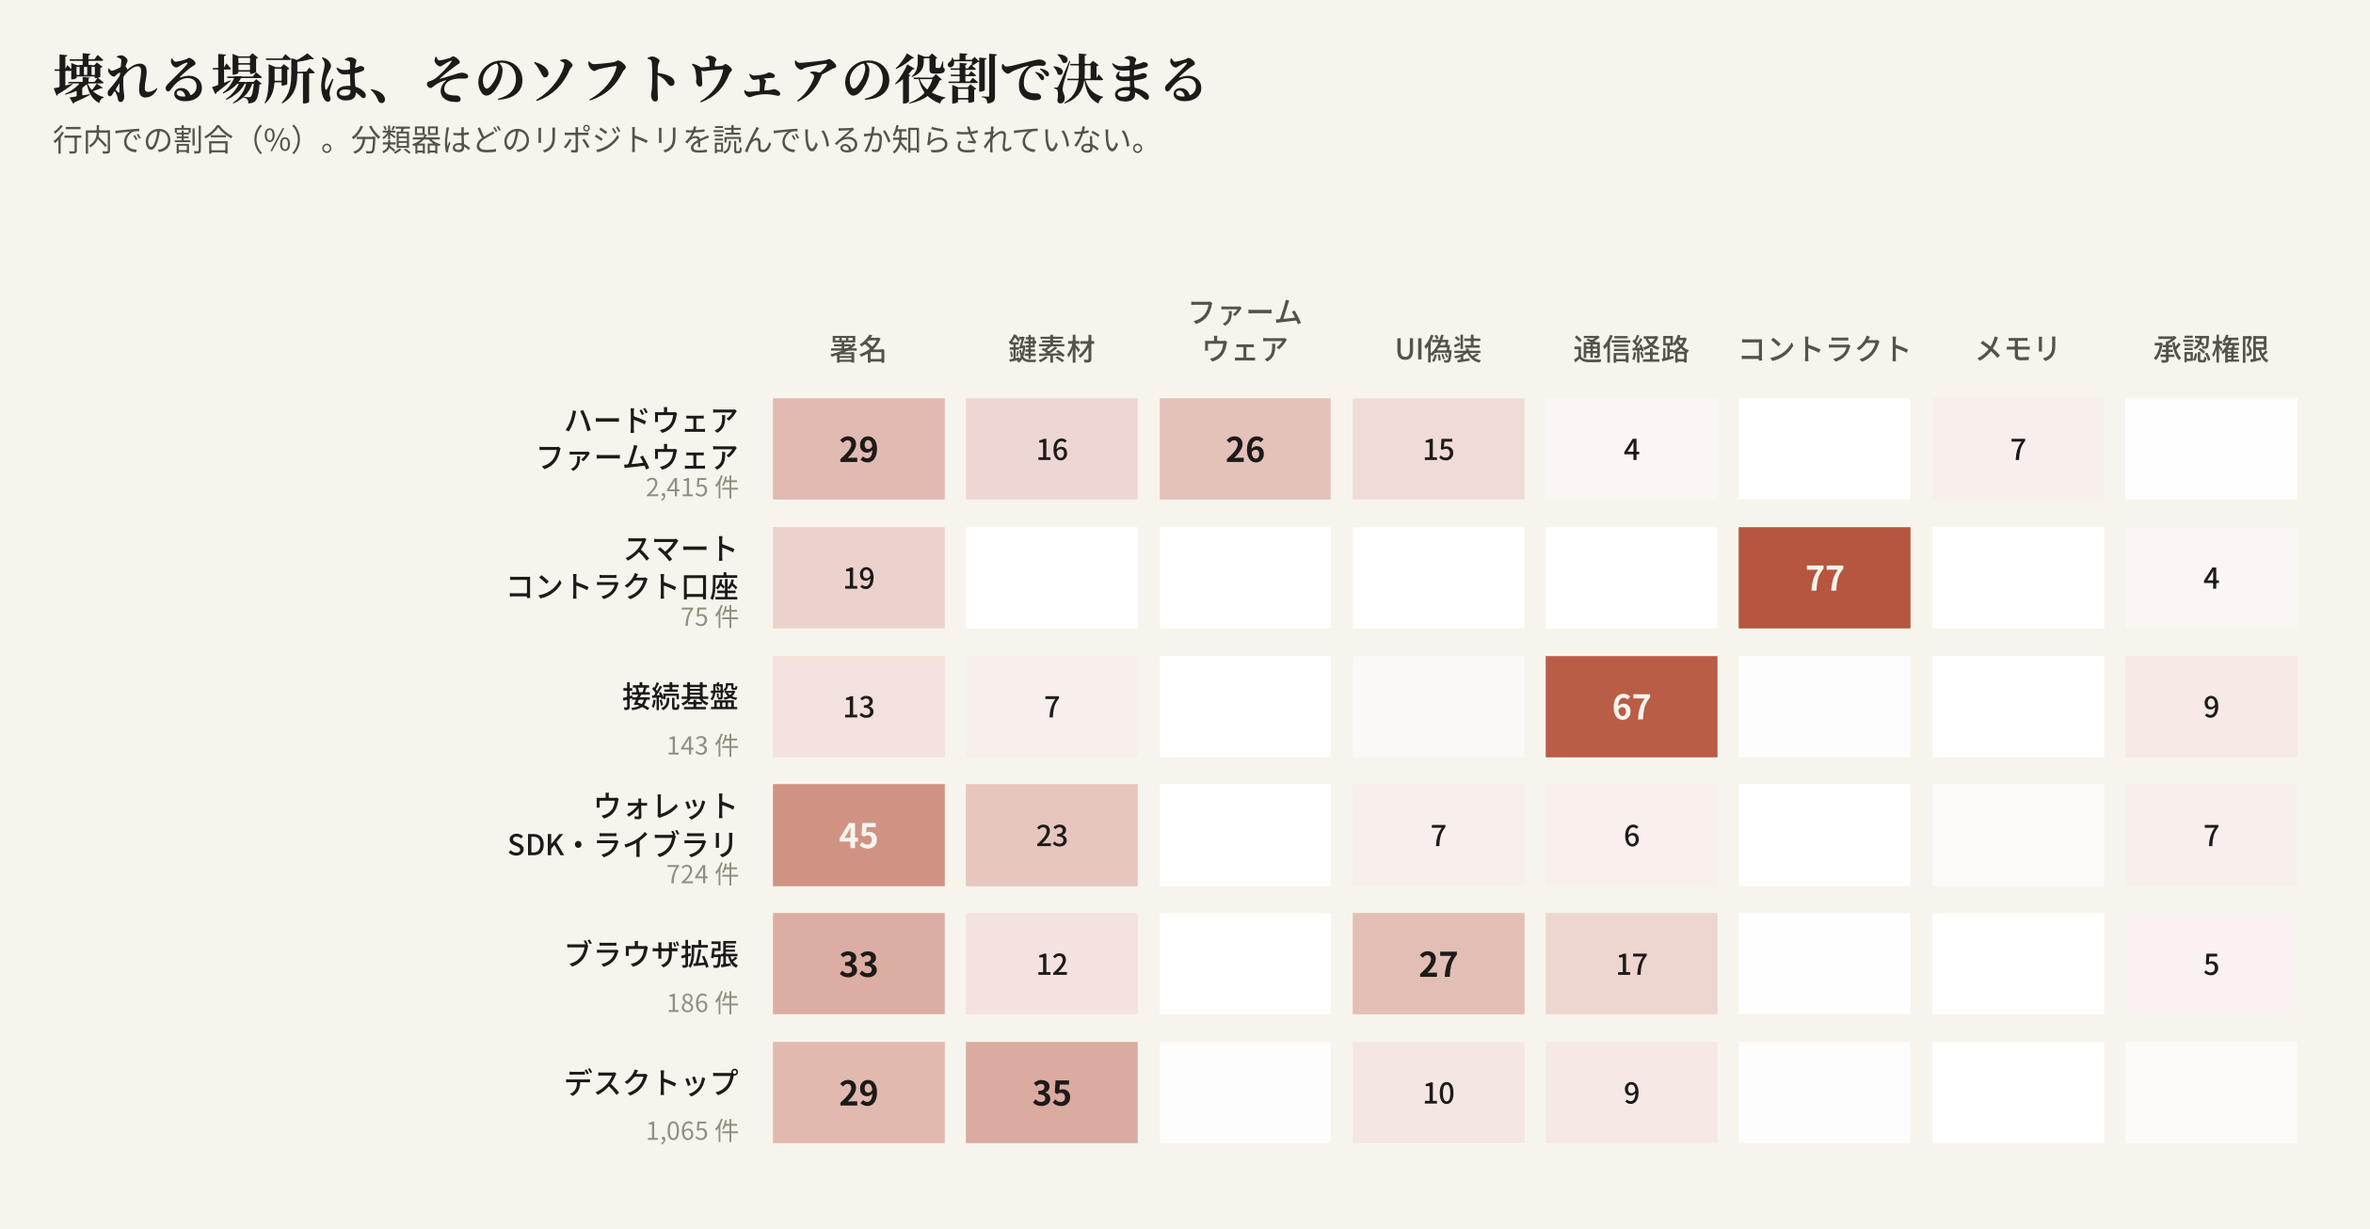
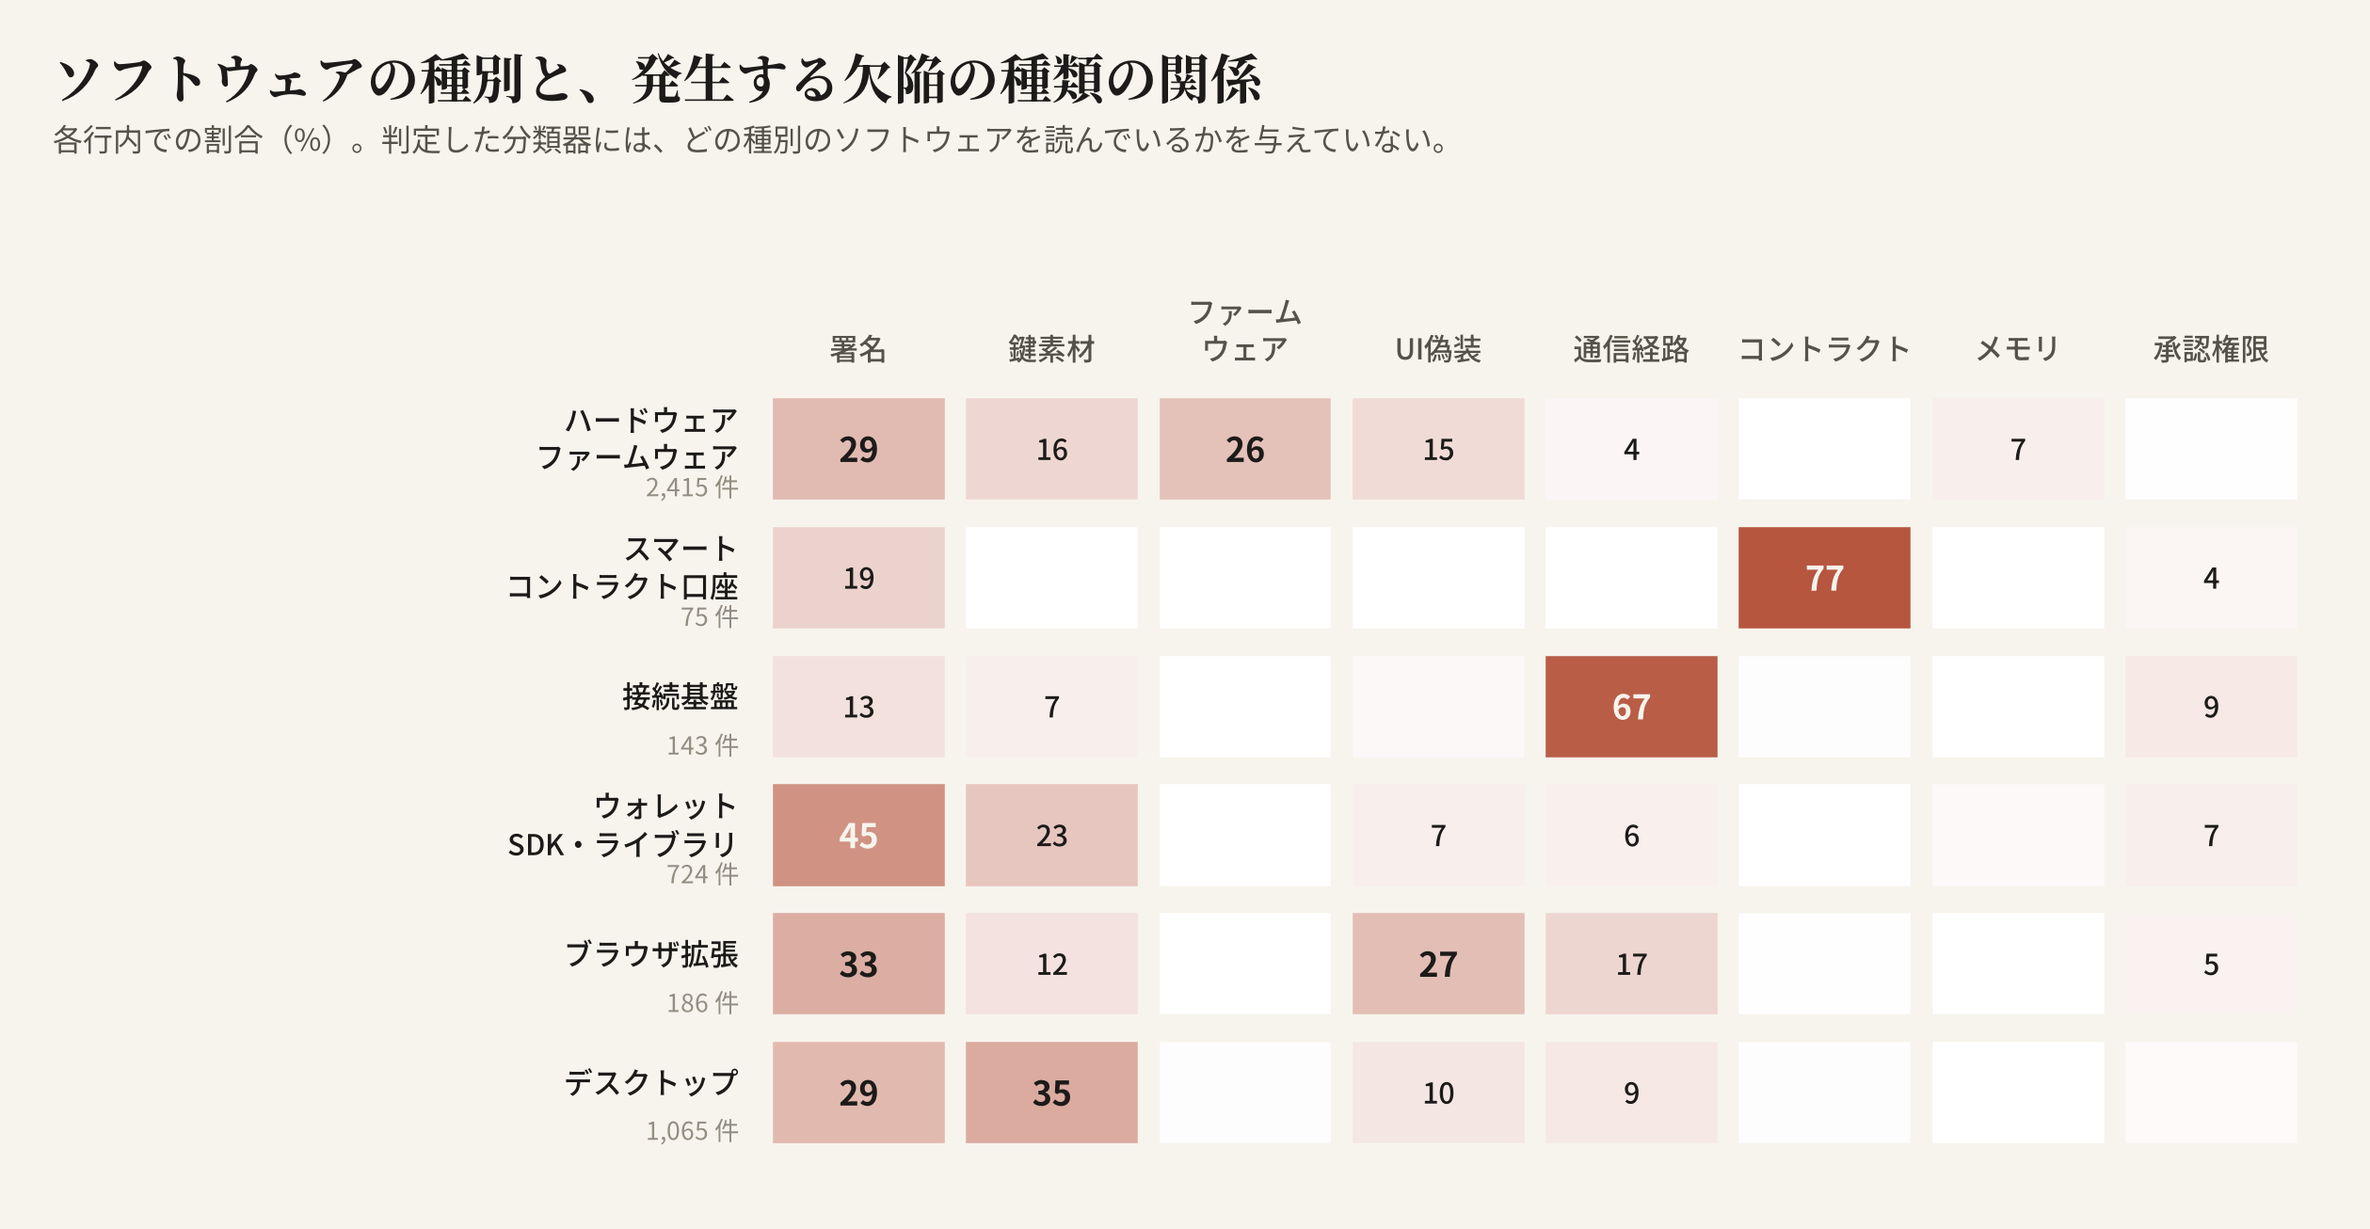
Retitle the figures for a reader who has never worked on a wallet, and drop one
The titles were catch-copy — "鍵は守られたまま、署名だけが裏切る", "壊れる場所は、
そのソフトウェアの役割で決まる". That register belongs to editorial work. A
conference poster wants a title that states what the figure shows, with the
interpretation moved to the subtitle:

  公開された脆弱性情報と、公表されずに修正された欠陥の件数
  欠陥の原因別に見た、公開情報と非公開修正の構成比の差
  ソフトウェアの種別と、発生する欠陥の種類の関係
  欠陥の所在の内訳 — 電子署名・画面表示の誤りと、鍵そのものの漏洩

Vocabulary too. Nothing now requires the reader to know this domain: custody path
is 資産の保管・送金処理, advisory is 公開された脆弱性情報（CVE 番号などが付与され
ているもの）, dependency bump is 外部ライブラリの脆弱性への追随, seed phrase is
復元用フレーズ.

fig5 is deleted. It plotted commits judged against hit rate, and what a reader
takes from it is that a longer history yields more fixes — which is both obvious
and about how the corpus was collected, not about wallets. The point it was
making (order by rate x history, not rate) is a sentence in the README and does
not need a panel on a poster.

Changed region(s): [[0.031, 0.0306, 0.5886, 0.1225]]

diff --git a/scripts/poster_figures.py b/scripts/poster_figures.py
@@ -39,20 +39,20 @@ CLASS_JA = {
 }
 MECH_JA = {
     "input-bounds-parsing": "入力の長さ・境界検査",
-    "signed-differs-from-shown": "署名対象と表示内容の乖離",
-    "authorization-check": "呼び出し元の権限検査",
+    "signed-differs-from-shown": "署名する内容と画面表示の不一致",
+    "authorization-check": "呼び出し元の権限確認",
     "key-derivation-storage": "鍵の導出・保管",
     "encoding-canonicalization": "エンコード・正規化",
     "key-lifetime-in-memory": "鍵のメモリ残留",
     "signature-verification-gap": "署名検証の欠落・無効化",
     "state-race-concurrency": "状態競合・レース",
-    "origin-session-auth": "オリジン・セッション認証",
+    "origin-session-auth": "接続元・セッションの認証",
     "side-channel-fault": "サイドチャネル・故障注入",
-    "replay-scope": "署名の再利用スコープ",
+    "replay-scope": "署名の使い回し防止",
     "nonce-or-randomness": "nonce・乱数",
     "curve-point-validation": "曲線・点の検証",
     "uri-deeplink-handling": "URI・ディープリンク",
-    "dependency-supply-chain": "依存パッケージ",
+    "dependency-supply-chain": "外部ライブラリ",
     "other": "特定できず",
 }
 
@@ -70,17 +70,17 @@ def fig_ratio(out="fig1_ratio.png"):
     fig, ax = S.new(12.8, 5.6, xlim=(-W * 0.015, W * 1.30), ylim=(-1.62, 1.30))
 
     # silent fixes
-    S.t(ax, 0, 1.10, "静かに直された欠陥", fp="bold", size=15.5, color=S.INK, va="center")
-    S.t(ax, 0, 0.83, "10 リポジトリの全コミットを判定（キーワード不使用）",
+    S.t(ax, 0, 1.10, "公表されずに修正された欠陥", fp="bold", size=15.5, color=S.INK, va="center")
+    S.t(ax, 0, 0.83, "10 製品の全変更履歴を 1 件ずつ判定",
         fp="reg", size=11, color=S.MUTED, va="center")
     S.rrect(ax, 0, 0.36, silent, 0.32, fc=S.RUST, ec="none", rs=0.02, z=2)
     S.t(ax, silent + W * 0.015, 0.52, f"{silent:,}", fp="black", size=30,
         color=S.RUST, va="center")
 
     # advisory rows, segmented
-    S.t(ax, 0, -0.10, "advisory / 格付け severity を持つ行", fp="bold", size=15.5,
+    S.t(ax, 0, -0.10, "脆弱性情報が公開された修正", fp="bold", size=15.5,
         color=S.INK, va="center")
-    S.t(ax, 0, -0.37, "本コーパスで最も証拠が強い層", fp="reg", size=11,
+    S.t(ax, 0, -0.37, "CVE 番号などが付与されているもの", fp="reg", size=11,
         color=S.MUTED, va="center")
     x = 0.0
     for n, c in ((conf, S.RUST), (dep, S.SLATE), (rest, S.lighten(S.SLATE, 0.60))):
@@ -94,23 +94,25 @@ def fig_ratio(out="fig1_ratio.png"):
     # 51 against a 4,608 scale is a sliver, so the callout carries it. Parked in the
     # empty upper-right of this row so it clears both the row total and the legend,
     # with the arrow approaching from the right rather than across the subtitle.
-    S.t(ax, W * 0.56, -0.16, f"うち カストディ経路の欠陥は\nわずか {conf} 件（4%）",
+    S.t(ax, W * 0.56, -0.16, f"うち 資産の保管・送金処理の欠陥は\nわずか {conf} 件（4%）",
         fp="bold", size=15.5, color=S.RUST, va="center", linespacing=1.5)
     S.arrow(ax, (W * 0.545, -0.34), (conf * 2.2, -0.60),
             color=S.RUST_L, lw=1.7, ms=12, rad=-0.26)
 
-    for i, (c, lab, n) in enumerate(((S.RUST, "カストディ経路の欠陥", conf),
-                                     (S.SLATE, "依存パッケージの CVE への追随", dep),
+    for i, (c, lab, n) in enumerate(((S.RUST, "資産の保管・送金処理の欠陥", conf),
+                                     (S.SLATE, "外部ライブラリの脆弱性への追随", dep),
                                      (S.lighten(S.SLATE, 0.60),
-                                      "運用作業・カストディ外の不具合", rest))):
+                                      "体制整備・資産処理以外の不具合", rest))):
         yy = -1.14 - i * 0.22
         S.rrect(ax, 0, yy - 0.055, W * 0.016, 0.125, fc=c, ec="none", rs=0.02, z=3)
         S.t(ax, W * 0.030, yy + 0.008, f"{lab}   {n:,}", fp="med", size=11.5,
             color=S.SOFT, va="center")
 
     fig.subplots_adjust(top=0.775, bottom=0.03, left=0.045, right=0.985)
-    S.title_block(fig, "開示された脆弱性の 96% は、ウォレット自身の欠陥ではない",
-                  "同一の分類器が diff を読んで判定。advisory 側 1,325 行／静かな修正 4,608 件。",
+    S.title_block(fig,
+                  "公開された脆弱性情報と、公表されずに修正された欠陥の件数",
+                  "暗号資産ウォレット 10 製品のソースコード変更履歴より。"
+                  "公開情報を伴う 1,325 件のうち、製品自身の資産保管処理の欠陥は 51 件。",
                   x=0.045, y=0.965)
     return S.save(fig, out)
 
@@ -143,13 +145,13 @@ def fig_mechanisms(out="fig2_mechanisms.png"):
             S.t(ax, -0.30, i, "0", fp="bold", size=10.5, color=S.RUST,
                 ha="left", va="center")
 
-    S.t(ax, t.s.max() * 0.86, n - 0.55, "静かな修正", fp="bold", size=13, color=S.RUST,
+    S.t(ax, t.s.max() * 0.86, n - 0.55, "公表されず修正", fp="bold", size=13, color=S.RUST,
         ha="center", va="center")
-    S.t(ax, 2.9, n - 0.55, "advisory", fp="bold", size=13, color=S.SLATE,
+    S.t(ax, 2.9, n - 0.55, "公開された", fp="bold", size=13, color=S.SLATE,
         ha="center", va="center")
     nz = t[t.n_a == 0]
     S.t(ax, 17.4, -0.66,
-        f"太字＝advisory では一度も記述されなかったメカニズム"
+        f"太字＝公開情報では一度も記述されなかった原因"
         f"（{len(nz)} 種・計 {int(nz.n_s.sum()):,} 件）",
         fp="bold", size=12, color=S.RUST, ha="right", va="center")
 
@@ -163,8 +165,9 @@ def fig_mechanisms(out="fig2_mechanisms.png"):
     ax.grid(axis="x", color=S.HAIR, lw=0.9)
     ax.set_axisbelow(True)
     fig.subplots_adjust(top=0.855, bottom=0.075, left=0.225, right=0.975)
-    S.title_block(fig, "開示は、鍵の残留とセッション認証を一度も語らない",
-                  "各メカニズムが占める割合。右の数字は静かな修正の件数。",
+    S.title_block(fig,
+                  "欠陥の原因別に見た、公開情報と非公開修正の構成比の差",
+                  "各原因が占める割合（%）。右端の数字は非公開で修正された件数。",
                   x=0.045, y=0.975)
     return S.save(fig, out)
 
@@ -200,8 +203,10 @@ def fig_heatmap(out="fig3_stack.png"):
         S.t(ax, j + 0.5, nr + 0.14, CLASS_JA[cls], fp="med", size=11, color=S.SOFT,
             ha="center", va="bottom", linespacing=1.25)
     fig.subplots_adjust(top=0.775, bottom=0.06, left=0.175, right=0.985)
-    S.title_block(fig, "壊れる場所は、そのソフトウェアの役割で決まる",
-                  "行内での割合（%）。分類器はどのリポジトリを読んでいるか知らされていない。",
+    S.title_block(fig,
+                  "ソフトウェアの種別と、発生する欠陥の種類の関係",
+                  "各行内での割合（%）。判定した分類器には、"
+                  "どの種別のソフトウェアを読んでいるかを与えていない。",
                   x=0.045, y=0.965)
     return S.save(fig, out)
 
@@ -215,12 +220,12 @@ def fig_folk(out="fig4_folk.png"):
 
     rows = [
         (1.34, sign, S.RUST,
-         "署名・表示の欠陥",
-         "承認していない内容に有効な署名が付く／画面が違うものを見せる",
+         "電子署名・画面表示の欠陥",
+         "利用者が承認していない内容に有効な署名が付く／画面が別の内容を表示する",
          f"署名 {int(vc.get('signing',0)):,} ＋ UI偽装 {int(vc.get('ui_deception',0)):,}"),
         (0.34, keys, S.SLATE,
          "鍵素材の欠陥",
-         "シードや鍵が漏れる・弱く生成される・メモリに残る", None),
+         "秘密鍵や復元用フレーズが漏れる・弱く生成される・メモリに残る", None),
     ]
     for y, v, c, head, desc, note in rows:
         S.t(ax, 0, y + 0.60, head, fp="bold", size=16, color=S.INK, va="center")
@@ -232,89 +237,17 @@ def fig_folk(out="fig4_folk.png"):
             S.t(ax, v + sign * 0.014, y - 0.26, note, fp="med", size=10.5,
                 color=S.MUTED, va="center")
 
-    S.t(ax, 0, -0.28, "「シードフレーズを守れば安全」という助言は、欠陥の所在を説明していない。",
+    S.t(ax, 0, -0.28, "「復元用フレーズを守れば安全」という一般的な助言は、欠陥の所在と一致しない。",
         fp="bold", size=14, color=S.RUST, va="center")
     fig.subplots_adjust(top=0.80, bottom=0.05, left=0.045, right=0.90)
-    S.title_block(fig, "鍵は守られたまま、署名だけが裏切る",
-                  f"キーワードを使わず回収した {len(SIL):,} 件の内訳。",
+    S.title_block(fig,
+                  "欠陥の所在の内訳 — 電子署名・画面表示の誤りと、鍵そのものの漏洩",
+                  f"非公開で修正された {len(SIL):,} 件の分類。",
                   x=0.045, y=0.965)
     return S.save(fig, out)
 
 
 # --- 5. why yield is the wrong sort key ------------------------------------
-def fig_yield(out="fig5_yield.png"):
-    import glob
-    import os
-    rows = []
-    g = SIL.groupby("wallet").size()
-    for pq in sorted(glob.glob(str(ROOT / "scratchpad_crawl/allcommits/*.parquet"))):
-        slug = os.path.basename(pq)[:-8]
-        judged = len(pd.read_parquet(pq, columns=["id"]))
-        hits = int(g.get(slug, 0))
-        if hits:
-            rows.append((slug, judged, hits, hits / judged * 100))
-    d = pd.DataFrame(rows, columns=["slug", "judged", "hits", "rate"])
-
-    # Six repos sit inside one small corner, so label placement is specified per
-    # repo rather than by a single rule: (dx in commits, dy in points, ha).
-    PLACE = {
-        "safe-contracts":  (300, 3.05, "left"),
-        "bitcoinjs-lib":   (0, 1.40, "center"),
-        "ledger-app-eth":  (0, 1.55, "center"),
-        "sparrow":         (-260, -1.05, "center"),
-        "metamask-snaps":  (250, -1.05, "center"),
-        "walletconnect":   (-520, -1.05, "center"),
-        "rabby":           (620, -1.05, "center"),
-        "wallet-core":     (250, 1.40, "center"),
-        "electrum":        (0, 1.55, "center"),
-        "trezor-firmware": (0, 1.60, "center"),
-    }
-
-    fig, ax = S.new(12.8, 6.8, axis_off=False)
-    ax.set_xlim(-900, d.judged.max() * 1.19)
-    ax.set_ylim(0, d.rate.max() * 1.34)
-    for _, r in d.iterrows():
-        big = r.hits >= 900
-        ax.scatter([r.judged], [r.rate], s=r.hits * 1.45,
-                   color=S.RUST if big else S.SLATE, alpha=0.36 if big else 0.30,
-                   ec=S.RUST if big else S.SLATE, lw=1.7, zorder=3)
-        dx, dy, ha = PLACE.get(r.slug, (0, 1.4, "center"))
-        S.t(ax, r.judged + dx, r.rate + dy, f"{r.slug}\n{int(r.hits):,} 件",
-            fp="bold" if big else "med", size=11.5 if big else 10,
-            color=S.RUST if big else S.SOFT, ha=ha,
-            va="bottom" if dy > 0 else "top", linespacing=1.3, zorder=5)
-
-    # anchored to electrum, which is the point being made
-    e = d[d.slug == "electrum"].iloc[0]
-    S.t(ax, e.judged - 700, d.rate.max() * 0.90,
-        "率 6.2% は平凡。しかし履歴が長いため\nこの 1 リポジトリだけで全体の 21% を産んだ",
-        fp="bold", size=12.5, color=S.RUST, ha="center", va="center", linespacing=1.5)
-    S.arrow(ax, (e.judged - 700, d.rate.max() * 0.775), (e.judged - 150, e.rate + 1.75),
-            color=S.RUST_L, lw=1.6, ms=11, rad=-0.22)
-
-    ax.set_xlabel("判定したコミット数", fontproperties=S.F["med"], fontsize=12,
-                  color=S.SOFT, labelpad=10)
-    ax.set_ylabel("セキュリティ修正の割合", fontproperties=S.F["med"], fontsize=12,
-                  color=S.SOFT, labelpad=10)
-    ax.set_yticks(range(0, 21, 5))
-    ax.set_yticklabels([f"{v}%" for v in range(0, 21, 5)],
-                       fontproperties=S.F["med"], fontsize=10.5, color=S.MUTED)
-    ax.set_xticks([0, 5000, 10000, 15000, 20000])
-    ax.set_xticklabels(["0", "5,000", "10,000", "15,000", "20,000"],
-                       fontproperties=S.F["med"], fontsize=10.5, color=S.MUTED)
-    for sp in ("top", "right"):
-        ax.spines[sp].set_visible(False)
-    for sp in ("bottom", "left"):
-        ax.spines[sp].set_color(S.FAINT)
-    ax.grid(color=S.HAIR, lw=0.9)
-    ax.set_axisbelow(True)
-    fig.subplots_adjust(top=0.815, bottom=0.115, left=0.075, right=0.975)
-    S.title_block(fig, "収率の高い順に掘るのは誤り",
-                  "円の面積は発見した修正の件数。掘るべき量は 率 × 履歴の長さ で決まる。",
-                  x=0.045, y=0.965)
-    return S.save(fig, out)
-
-
 if __name__ == "__main__":
-    for f in (fig_ratio, fig_mechanisms, fig_heatmap, fig_folk, fig_yield):
+    for f in (fig_ratio, fig_mechanisms, fig_heatmap, fig_folk):
         print(f())

diff --git a/README.md b/README.md
@@ -350,23 +350,25 @@ such so they can be excluded.
 
 ## Figures
 
-`docs/figures/` holds the five figures behind the findings above, regenerated
+`docs/figures/` holds the four figures behind the findings above, regenerated
 from the committed tables so they cannot drift from the data:
 
 | Figure | Shows |
 |---|---|
-| `fig1_ratio.png` | what the strongest evidence tier actually contains |
-| `fig2_mechanisms.png` | per-mechanism gap, and the five never disclosed |
-| `fig3_stack.png` | which part of the custody stack breaks, by software role |
-| `fig4_folk.png` | signing and display failures against key leakage |
-| `fig5_yield.png` | why yield alone is the wrong way to order the work |
+| `fig1_ratio.png` | disclosed advisories against fixes shipped without one |
+| `fig2_mechanisms.png` | the two populations by defect cause, and the five causes never disclosed |
+| `fig3_stack.png` | software type against the kind of defect that occurs in it |
+| `fig4_folk.png` | signing and display failures against leakage of the key itself |
 
 ```bash
 uv run --with matplotlib --with numpy --with uharfbuzz --with fonttools \
     --with pandas --with pyarrow python scripts/poster_figures.py
 ```
 
-Labels are Japanese. Every number is read from `data/`, never typed in.
+Labels are Japanese, and worded for a reader who has never worked on a wallet:
+"custody path" appears as 資産の保管・送金処理, "advisory" as 公開された脆弱性情報.
+Titles state what each figure shows; the takeaway sits in the subtitle. Every
+number is read from `data/`, never typed in.
 
 ## Layout
 
